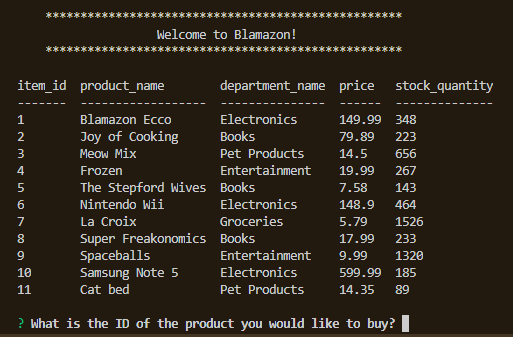
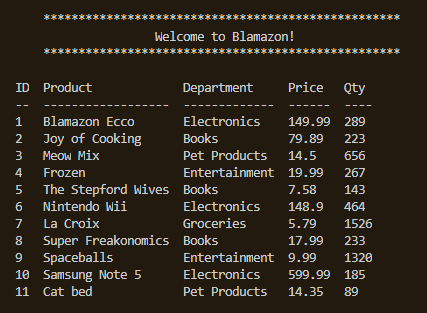
added images and updated readme

Changed region(s): [[0.0, 0.23, 1.0, 1.0], [0.0913, 0.0288, 0.9438, 0.1725]]

diff --git a/blamazonManager.js b/blamazonManager.js
@@ -30,7 +30,7 @@ const mgrMenu = () => { // show menu
             name: "mgrChoice"
         }
     ]).then(ans => { // goto function based on user entry
-        connection.query("SELECT * FROM products", (err, res) => {
+        connection.query("SELECT item_id AS ID, product_name AS Product, department_name AS Department, price AS Price, stock_quantity AS Qty, product_sales AS Subtotal FROM products", (err, res) => {
             if (err) throw err;
 
             switch (ans.mgrChoice) {
@@ -65,7 +65,7 @@ const viewProducts = (products) => { // show table of products
 const lowInventory = (products) => { // show table of products with inventory <5 units
     const lowInventory = [];
     for (i in products) {
-        if (products[i].stock_quantity < 5) {
+        if (products[i].Qty < 5) {
             lowInventory.push(products[i]); // create array of products with <5 units
         }
     }
@@ -90,20 +90,20 @@ const addInventory = (products) => { // add products to database
 
         for (i in products) {
             const p = products[i];
-            if (p.item_id == ans.itemId) { // checks if id user entered matched id in database
+            if (p.ID == ans.itemId) { // checks if id user entered matched id in database
                 itemMatch = true; // set indicator to true if match
-                const newQty = p.stock_quantity + parseInt(ans.productQty); // calculate new qty of stock
+                const newQty = p.Qty + parseInt(ans.productQty); // calculate new qty of stock
                 connection.query("UPDATE products SET ? WHERE ?", // update table with new quantity where id matches
                     [
                         {
                             stock_quantity: newQty
                         },
                         {
-                            item_id: p.item_id
+                            item_id: p.ID
                         }
                     ], (err, res) => {
                         if (err) throw err;
-                        console.log(`\nYou have ${newQty} units of ${p.product_name} in your inventory\n`);
+                        console.log(`\nYou have ${newQty} units of ${p.Product} in your inventory\n`);
                         mgrMenu();    
                     }
                 );

diff --git a/blamazonCustomer.js b/blamazonCustomer.js
@@ -43,7 +43,7 @@ const menu = () => {
 const seeProducts = () => {
     // print product table
     connection.query(`
-    SELECT item_id, product_name, departments.department_name, price, stock_quantity FROM products 
+    SELECT item_id AS ID, product_name AS Product, departments.department_name AS Department, price AS Price, stock_quantity AS Qty FROM products 
     LEFT JOIN departments 
     ON products.department_id = departments.department_id`, 
     (err, res) => {

diff --git a/README.md b/README.md
@@ -1,15 +1,19 @@
 # BLAMAZON
-This application ....
+This application enables customers to view an inventory of items with their department, price, and available stock and to purchase these items if desired. Managers have the ability to view the inventory list, identify items with less than five units available, order units of an existing product, and purchase new products. Finally, supervisors can view sales per department and add new departments as needed.
 
 ## Getting Started
 
 ### Customer
-Start the customer service app by entering [node blamazonCustomer.js] (assets/images/customerStart.PNG) on the command 
+Start the customer service app by entering [node blamazonCustomer.js](assets/images/customerStart.PNG) on the command line. An [inventory table](assets/images/customerInventory.PNG) is displayed upon opening the app. Customers are [prompted](assets/images/customerPurchase.PNG) to enter the product ID and number of units they wish to purchase. Upon purchasing, the total cost of goods is displayed. An [updated view of the inventory table](assets/images/customerInventoryUpdate.PNG) reflects the reduced quantity of the item just purchased. Customers can choose to continue to buy items or to [exit](assets/images/customerExit.PNG) the customer app.
 
-[invalid responses](assets/images/customerStart.PNG) 
+### Manager
 
+Start the manager app by entering [node blamazonManager.js](assets/images/managerStart.PNG) to show the menu of options. Managers can
+[view products](assets/images/managerView.PNG), 
+[view items with low inventory](assets/images/managerLowInventory.PNG), [stock inventory](assets/images/managerStock.PNG), and [add new products](assets/images/managerAddNewProduct.PNG) to the [inventory table](assets/images/managerUpdatedInventory.PNG). Finally, managers can exit from the menu.
 
-
+### Supervisor
+Start the supervisor app by entering [node blamazonSupervisor.js](assets/imagessupervisorStart.PNG) to show the menu of options. Supervisors can [view a table](assets/images/supervisorSales.PNG) of overhead, sales, and profit by department. Newly created departments without corresponding products in that department will have null values for sales and profit. [New departments](assets/images/supervisorNewDept.PNG) can be added by entering its name and overhead cost. Choose exit to close the program.
 
 ## Built With
 
